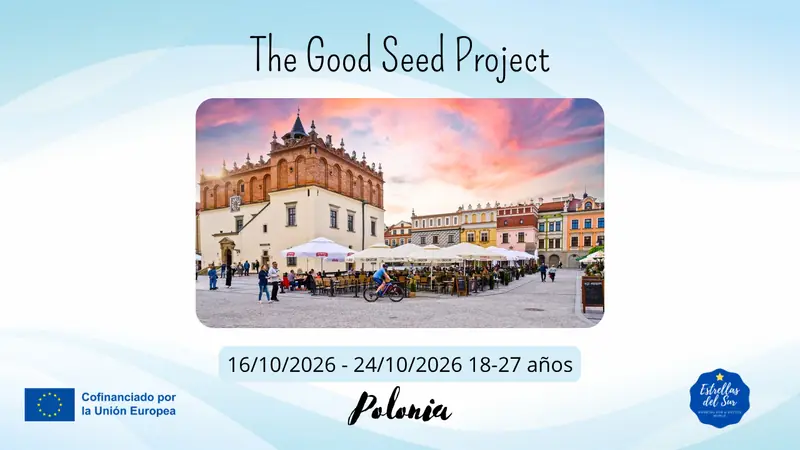
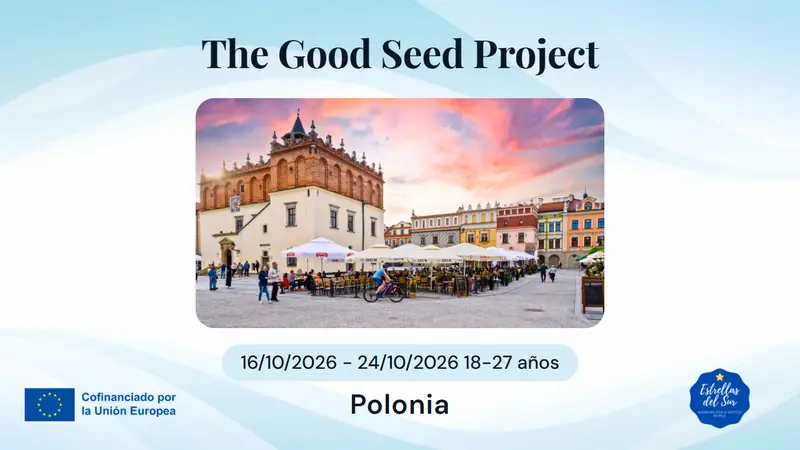
Portada de The Good Seed con las fuentes de la web y plazas de Citizenship
La plantilla de Canva mezclaba tres tipografias sin relacion entre si: una
manuscrita para el titulo, una sans para las fechas y una de pincel para
el pais. La portada pasa a Playfair Display en el titulo y DM Sans en el
resto, que son las de la web, con el texto en navy en vez de negro.

El fondo, el emblema de la UE y el logo salen del mismo export de Canva,
solo se rehacen los textos.

Citizenship in Diversity pasa a decir sus plazas reales, 5 participantes y
1 responsable de grupo.

diff --git a/src/content/projects/citizenship-in-diversity.md b/src/content/projects/citizenship-in-diversity.md
@@ -23,6 +23,7 @@ coste: "Cuota de socio 50 € (solo si te seleccionan)"
 - **Fechas:** Del 11/11/2026 al 18/11/2026, con el 10 y el 19 de noviembre como días de viaje
 - **Lugar:** La Padure Pension, en Brebu, provincia de Caraș-Severin (Rumanía)
 - **Perfil:** Jóvenes de 18 a 24 años. El responsable de grupo debe tener 18 años o más, sin límite superior de edad
+- **Plazas para España:** 5 participantes y 1 responsable de grupo (team leader)
 - **Coordina:** Asociaţia Nevo Parudimos (Rumanía)
 - **Código del proyecto:** 2026-1-RO01-KA151-YOU-000394690
 - **Fecha límite de inscripciones:** Evaluaremos las cartas sobre la marcha, ¡no te lo pienses más!
@@ -82,7 +83,7 @@ No se permitirá llegar más tarde de la fecha de inicio ni salir antes de la fe
 
 ## Perfil del Participante
 
-Buscamos a jóvenes de 18 a 24 años residentes en España, más un responsable de grupo que debe ser mayor de 18 años y para el que no hay límite superior de edad.
+Buscamos a 5 jóvenes de 18 a 24 años residentes en España, más un responsable de grupo que debe ser mayor de 18 años y para el que no hay límite superior de edad.
 
 El proyecto da prioridad a **jóvenes con menos oportunidades y a juventud romaní**, y se pide motivación real para participar, con ganas de acercarse a las culturas minoritarias, a las herramientas artísticas y al diálogo intercultural.
 
@@ -118,4 +119,4 @@ El botón de preinscripciones te llevará a un formulario donde deberás rellena
 
 Se valorará positivamente a quienes anteriormente hayan solicitado participar en un proyecto con Estrellas del Sur sin haber sido elegidos. Se valorará negativamente a quienes hayan sido seleccionados y no hayan asistido. **Las cartas redactadas con Inteligencia Artificial serán motivo de anulación de la inscripción.**
 
-Las plazas para España son limitadas y aceptaremos inscripciones de manera continua, por lo que recomendamos realizarlas con la mayor brevedad posible.
+Hay **6 plazas** para España, 5 de participante y 1 de responsable de grupo, y aceptaremos inscripciones de manera continua, por lo que recomendamos realizarlas con la mayor brevedad posible.
